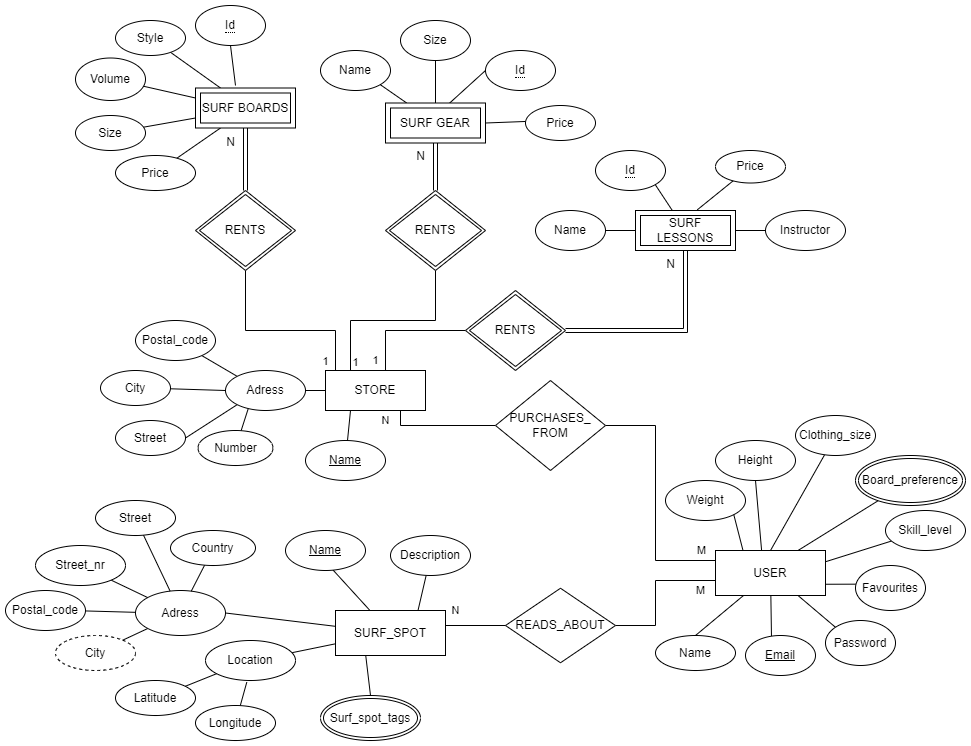
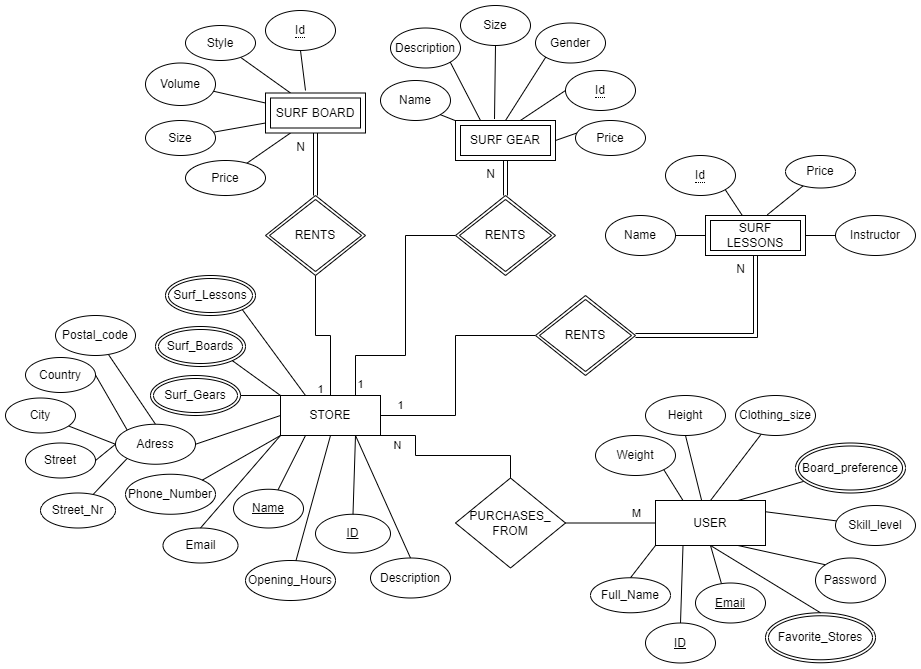
insert new diagram and fix favorite star toggle

diff --git a/client/src/components/FavouriteStar.vue b/client/src/components/FavouriteStar.vue
@@ -1,7 +1,7 @@
 <template>
   <div v-if="token">
   <b-icon
-    v-if="!this.storeMarked"
+    v-if="!this.storeMarked "
     icon="star"
     aria-hidden="true"
     font-scale="1.5"
@@ -102,6 +102,8 @@ export default {
           this.message = 'Login Failed. Please try again'
           console.log(error)
           console.log(error.response)
+        }).then(remove => {
+            this.reloadPage()
         })
     },
     removeFavorites() {
@@ -112,7 +114,12 @@ export default {
             console.log('Deleted from array')
         }).catch(error => {
             console.log(error)
+        }).then(response => {
+            this.reloadPage()
         })
+    },
+    reloadPage() {
+      window.location.reload()
     }
   }
 }
